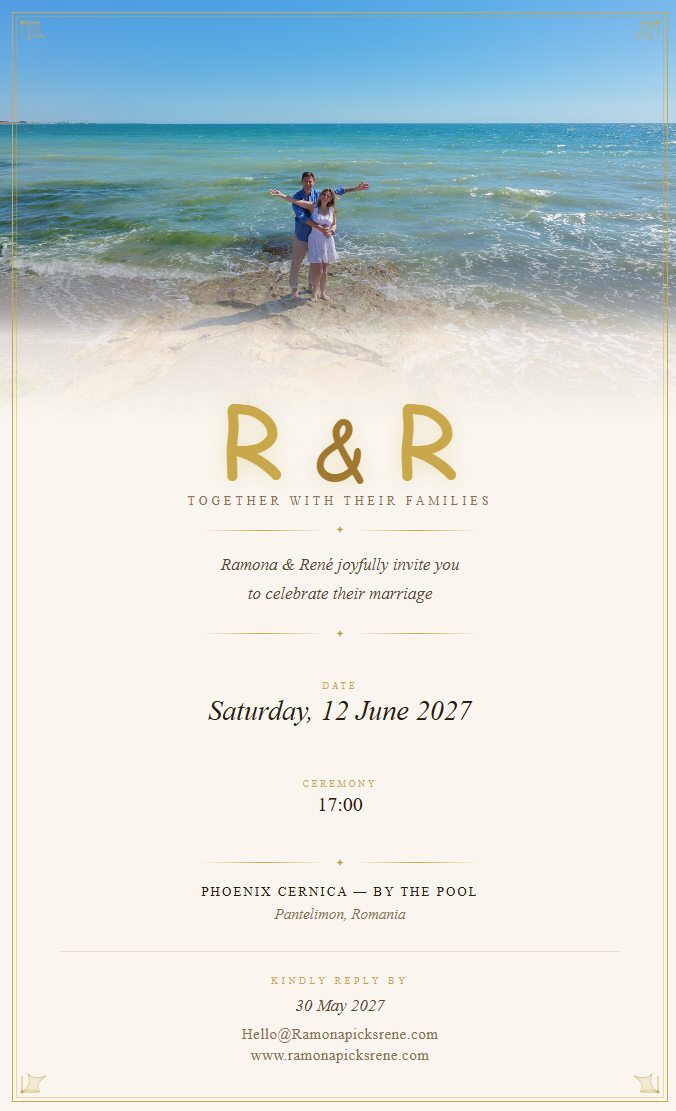
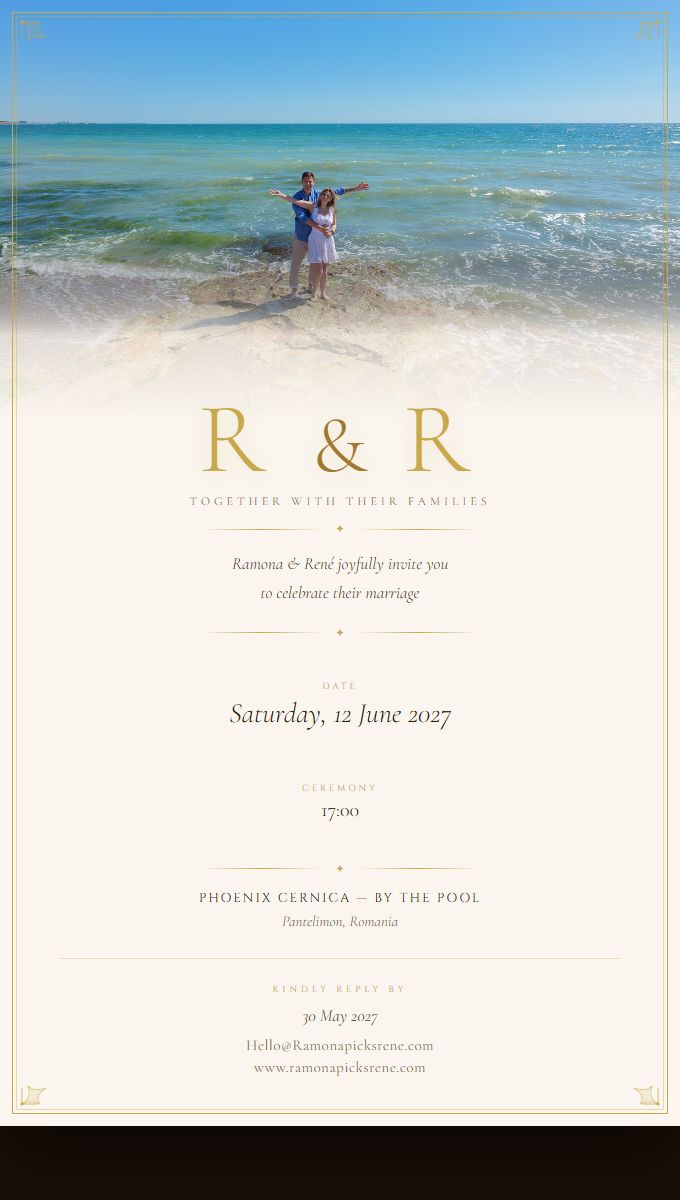
Update invitation card: R&R monogram font to Cormorant Garamond

Changed region(s): [[0.0, 0.0, 1.0, 1.0], [0.3107, 0.5815, 0.466, 0.6733], [0.5902, 0.7345, 0.6834, 0.7651]]

diff --git a/CLAUDE.md b/CLAUDE.md
@@ -142,7 +142,7 @@ rene-ramona-wedding/
 │   ├── Welcome.tsx         # Intro text + venue details + Google Maps
 │   ├── Program.tsx         # Animated timeline
 │   ├── RSVP.tsx            # Attendance form only → Google Sheets (meal selection removed)
-│   ├── Menu.tsx            # Standalone menu section (Starters, Mains, Dessert, Drinks, Kids)
+│   ├── Menu.tsx            # Standalone menu section (Starters, Mains, Dessert, Drinks, Kids) — REMOVED from page.tsx Aug 2026
 │   ├── Accommodation.tsx   # Hotel cards
 │   ├── HoneymoonFund.tsx   # Donation + wish generator
 │   ├── Parking.tsx         # Parking guide with 3 step images (stacked)
@@ -212,12 +212,10 @@ Welcome (intro italic + body)
 Program (subtitle: white)
 ↓ SectionImage: confirm-presence.jpg
 RSVP (subtitle: white; success message: dark, includes confirmation email note; auto-scrolls to #rsvp on submit)
-↓ SectionImage: menu.jpg
-Menu (Starters, Mains, Dessert, Drinks, Kids)
 ↓ SectionImage: hotels-accommodation.jpg
 Accommodation (subtitle: white)
 ↓ SectionImage: honeymoon-fund.jpg
-HoneymoonFund
+HoneymoonFund (nav label & section title: "Wedding Gift" in all 3 languages — Aug 2026)
 ↓ SectionVideo: parking.mp4
 Parking
 ↓ SectionImage: contact.jpg
@@ -329,7 +327,7 @@ CSS z-index stacking on `.card-outer`:
 
 All UI strings live in `locales/{en,ro,sk}.json`. The `LanguageContext` provides a `t` object throughout the Next.js app.
 
-Locale files contain: `nav`, `hero`, `welcome`, `program`, `rsvp`, `accommodation`, `honeymoon`, `parking`, `contact`, `footer`. The `nav` object includes a `menu` key (EN: "Menu", RO: "Meniu", SK: "Menu").
+Locale files contain: `nav`, `hero`, `welcome`, `program`, `rsvp`, `accommodation`, `honeymoon`, `parking`, `contact`, `footer`. The `nav` object no longer includes a `menu` key (Menu section removed Aug 2026). The `honeymoon` nav key and section title are now "Wedding Gift" across all three locales.
 
 The `parking` key holds: `title`, `subtitle`, `body`, `step1`, `step2`, `step3`.
 
